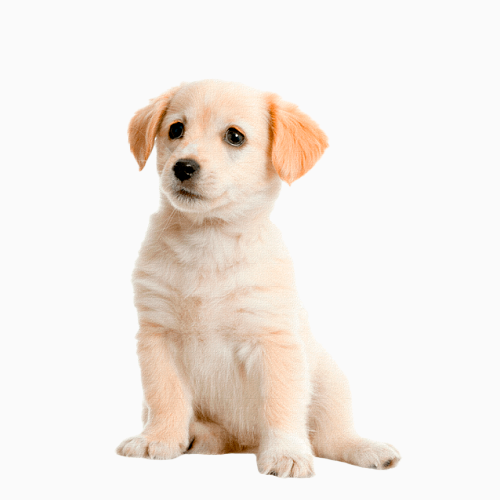
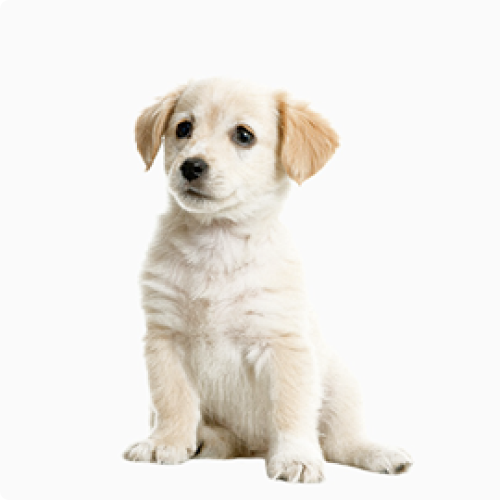
fix: implement correct display popup

Changed region(s): [[0.24, 0.15, 0.84, 0.99]]

diff --git a/shelter/css/popup.css b/shelter/css/popup.css
@@ -6,8 +6,8 @@
   top: 0;
   left: 0;
   opacity: 0;
-  z-index: 1000;
   visibility: hidden;
+  z-index: 1000;
   overflow-y: auto;
   overflow-x: hidden;
   transition: all 0.3s ease 0s;
@@ -86,6 +86,13 @@
      object-fit: contain;
   border-radius: 9px 0px 0px 9px;
 }
+@media (max-width: 61.99875em) {
+  .popup__img {
+    -o-object-fit: cover;
+       object-fit: cover;
+    height: 100%;
+  }
+}
 @media (max-width: 48em) {
   .popup__img {
     max-width: 350px;
@@ -99,6 +106,7 @@
 .popup__pet-info {
   max-width: 400px;
   padding: 51px 20px 50px 30px;
+  margin: 0 auto;
 }
 @media (max-width: 48em) {
   .popup__pet-info {
@@ -106,14 +114,10 @@
     max-width: 281px;
   }
 }
-@media (max-width: 47.99875em) {
-  .popup__pet-info {
-    max-width: none;
-  }
-}
 @media (max-width: 35.99875em) {
   .popup__pet-info {
     padding: 9px 9px 9px 11px;
+    max-width: none;
   }
 }
 

diff --git a/shelter/sass/components/popup.scss b/shelter/sass/components/popup.scss
@@ -9,8 +9,8 @@
 	top: 0;
 	left: 0;
 	opacity: 0;
-	z-index: 1000;
 	visibility: hidden;
+	z-index: 1000;
 	overflow-y: auto;
 	overflow-x: hidden;
 	transition: all .3s ease 0s;
@@ -81,6 +81,10 @@
 		height: auto;
 		object-fit: contain;
 		border-radius: 9px 0px 0px 9px;
+		@media (max-width: em($breakpoint992)) {
+			object-fit: cover;
+			height: 100%;
+		}
 		@media (max-width: em($breakpoint768 + 0.02)) {
 			max-width: 350px;
 		}
@@ -92,15 +96,14 @@
 	&__pet-info {
 		max-width: 400px;
 		padding: 51px 20px 50px 30px;
+		margin: 0 auto;
 		@media (max-width: em($breakpoint768 + 0.02)) {
 			padding: 10px 9px 37px 11px;
 			max-width: 281px;
 		}
-		@media (max-width: em($breakpoint768)) {
-			max-width: none;
-		}
 		@media (max-width: em($breakpoint576)) {
 			padding: 9px 9px 9px 11px;
+			max-width: none;
 		}
 	}
 }

diff --git a/shelter/js/popup.js b/shelter/js/popup.js
@@ -31,7 +31,9 @@ const createPopupTemplate = (object, number) => {
 		<div class="popup__body">
 			<div class="popup__wrapper">
 				<div class="popup__content">
-					<img src="${object[number].img}" alt="pet" class="popup__img">
+					<div class="popup__img-wrapper">
+						<img src="${object[number].img}" alt="pet" class="popup__img">
+					</div>
 					<div class="popup__pet-info pet-info">
 						<div class="pet-info__name h3-title h3-title_dark h3-title_big">${object[number].name}</div>
 						<div class="pet-info__type"><span>${object[number].type}</span> - <span>${object[number].breed}</span></div>
